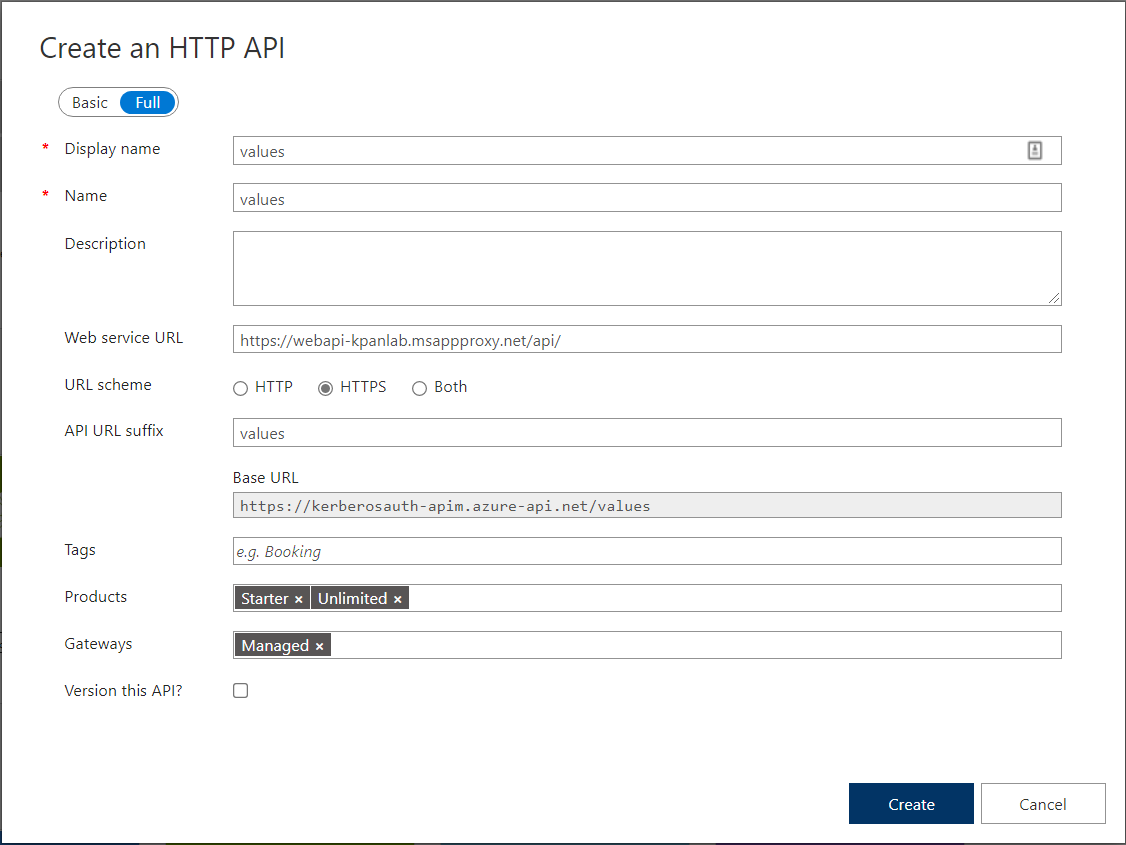
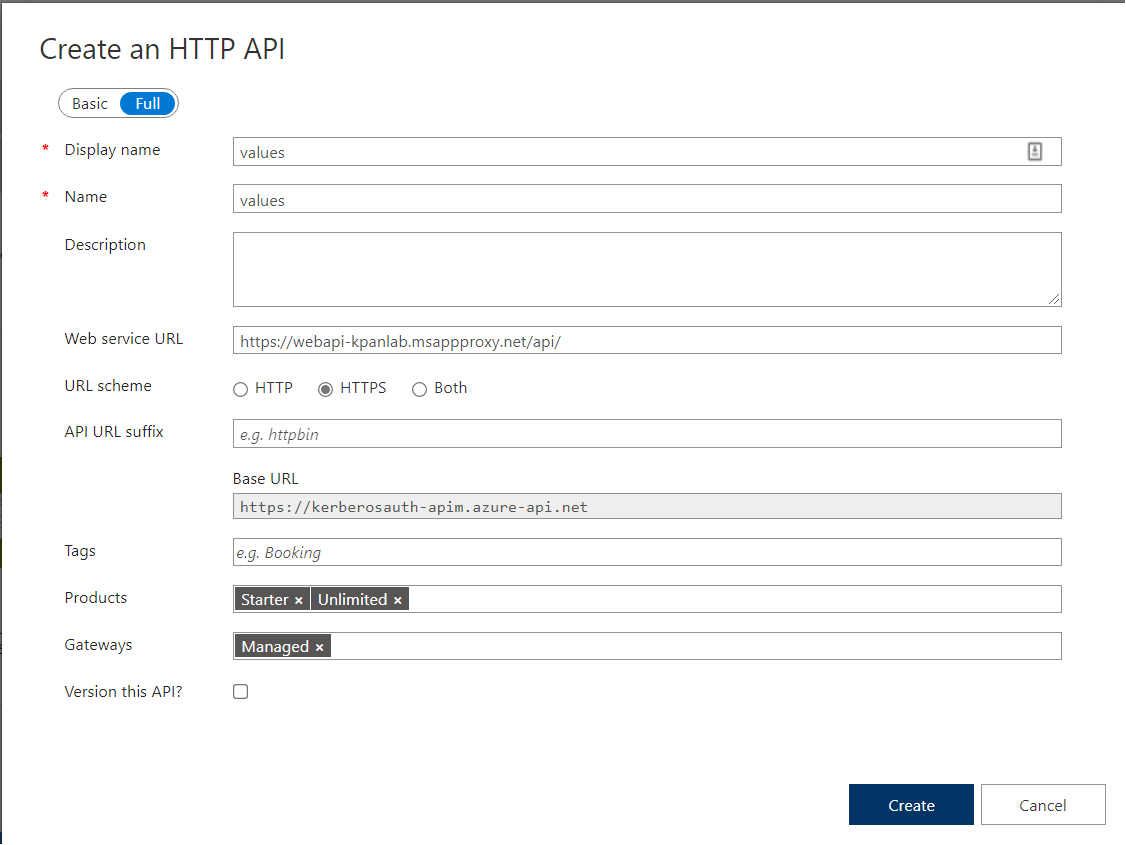
fix api definition

diff --git a/kerberos-onprem-api-with-apim/README.md b/kerberos-onprem-api-with-apim/README.md
@@ -281,7 +281,6 @@ Time to expose your on-premise application through APIM.
    * Enter the programmatic name of the API
    * Set the **Web Service Url** the APIM will be calling. This should be the proxy application dns name with the api path e.g. ```https://webapi-kpanlab.msappproxy.net/api/```
    * Select **HTTPS** for the URL scheme
-   * Enter an **API suffix** to distinguish it from other APIs on the same gateway
    * Select all available **Products**
    * Click **Create**
 
@@ -290,8 +289,14 @@ Time to expose your on-premise application through APIM.
 1. Click on the **Settings** tab of the newly created API and under the **Security** Section select the OAuth server you created in the previous step.
    ![Select OAuth for API](images/API-OAuth.png)
 
+1. Add an **Operation** for the newly created API
+   ![Add operation to API](images/add-operation.png)
 ### 5. Configure a JWT validation policy to pre-authorize requests
 You will need to Pre-authorize requests in API Management with the Validate JWT policy, by validating the access tokens of each incoming request. If a request does not have a valid token, API Management blocks it.
+
+Click on the design tab of the newly created API and edit the inbound policy with the policy editor
+
+![Policy editor](images/policy-editor.png)
 
 The following example policy, when added to the <inbound> policy section, checks the value of the audience claim in an access token obtained from Azure AD, and returns an error message if the token is not valid.
 
